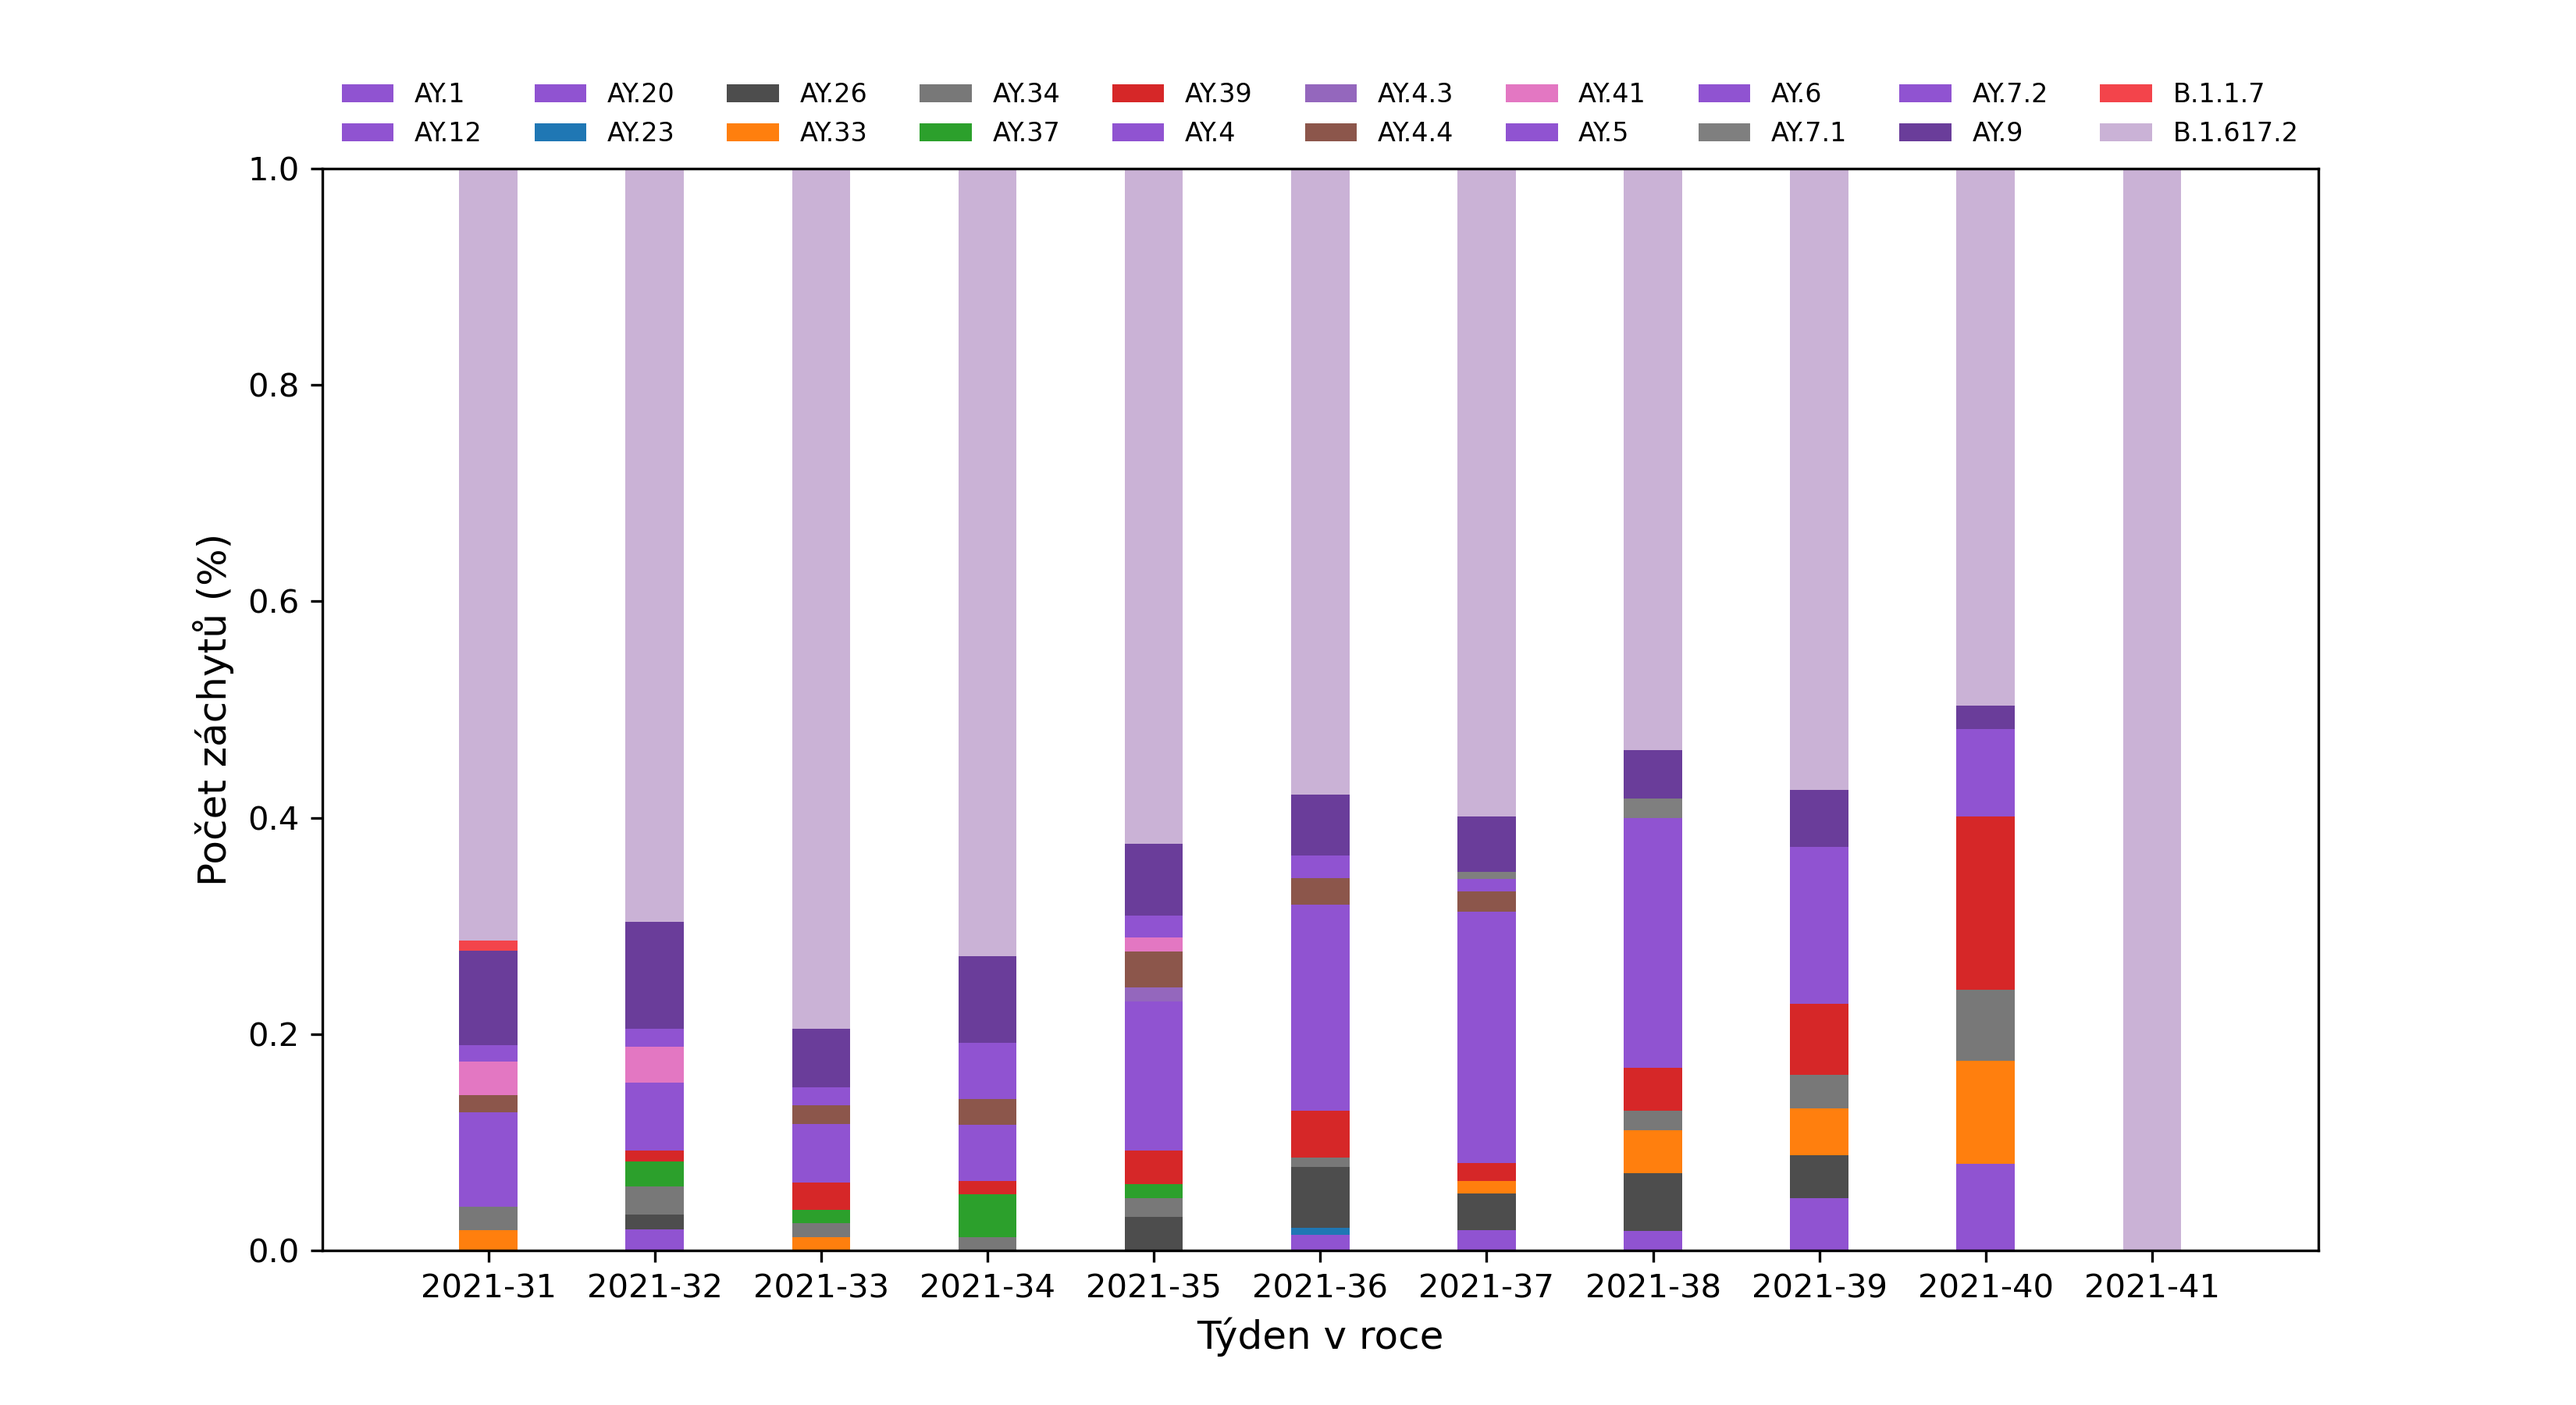
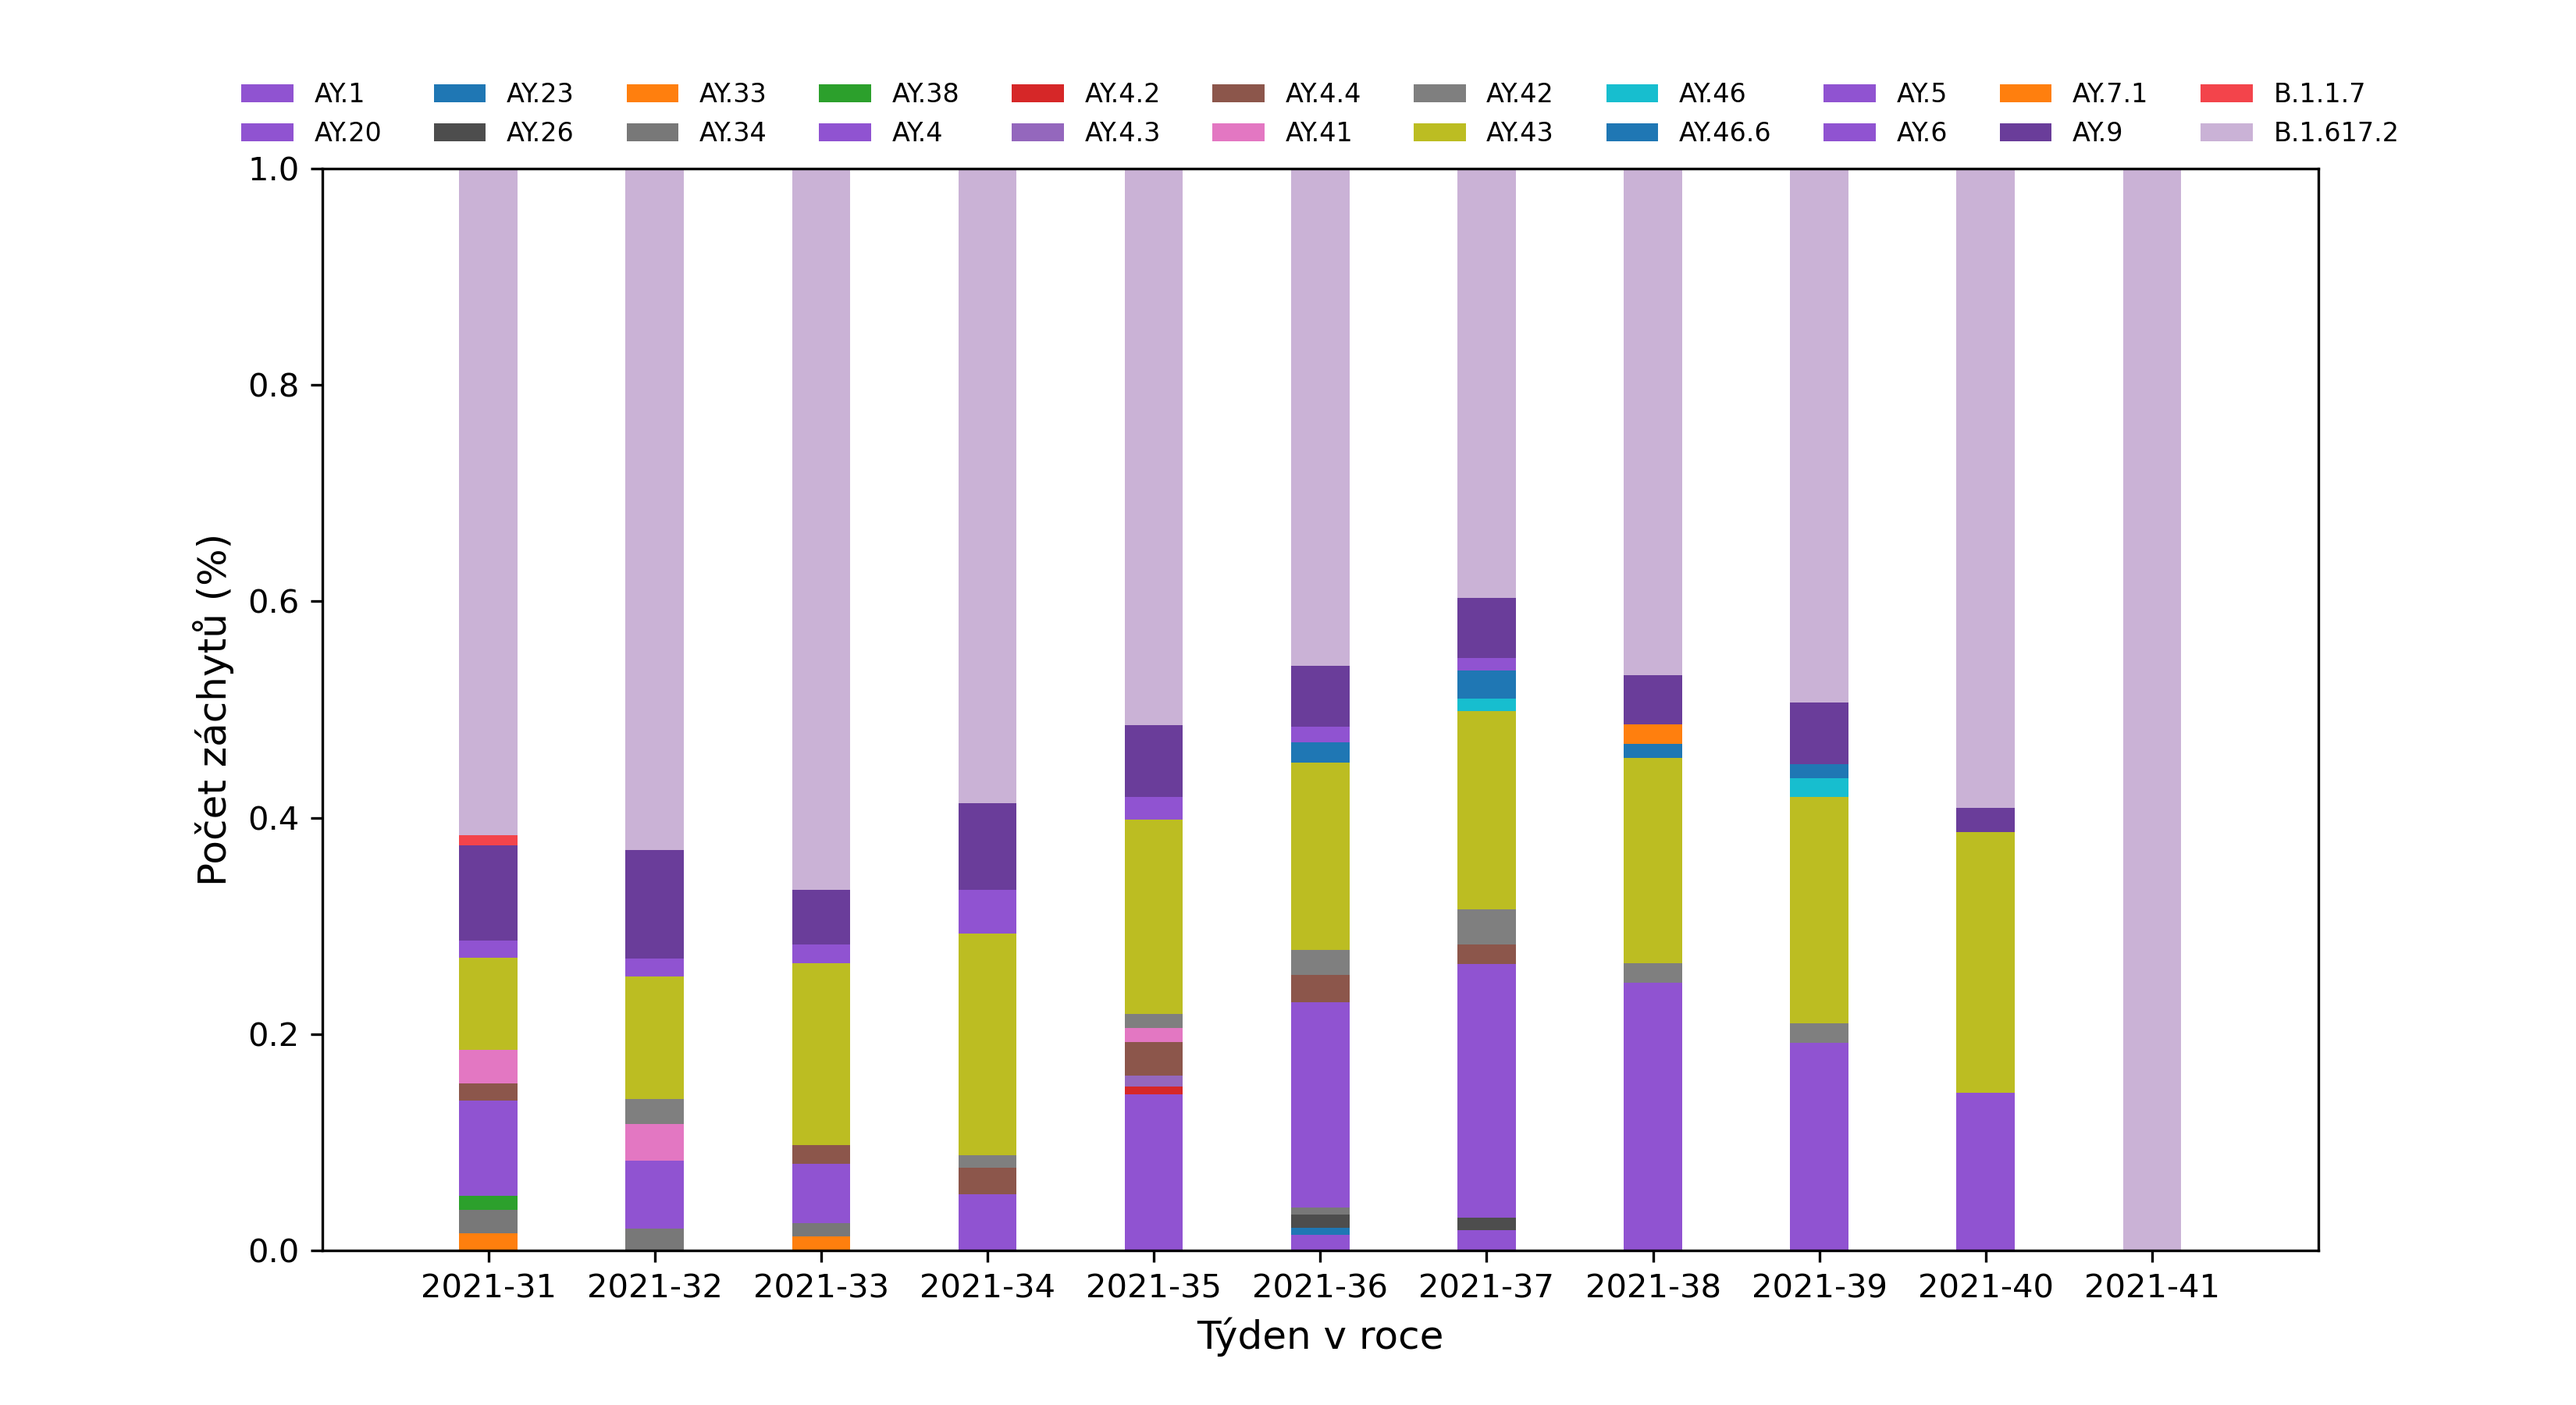
upgrade main a plots

diff --git a/template_main.py b/template_main.py
@@ -27,7 +27,7 @@ STARTING_WEEK = "31"
 SEQUENCED_RATIO = "6.68"
 MUTATIONS_COUNT = "2 100"
 NOW=datetime.datetime.now().strftime('%d. %m. %Y' )
-VOC = ['B.1.351', 'P.1', 'B.1.617.2','B.1.1.7',"B.1.351.2", "B.1.351.5", "AY.1", "AY.2", "AY.3", "AY.4", "AY.4.1", "AY4.3", "AY.4.4","AY.4.5", "AY.5", "AY.5.2", "AY.6","AY.7","AY.7.1", "AY.7.2", "AY.9","AY.10","AY.11", "AY.12", "AY.16", "AY.20", "AY.21","AY.23","AY.23.1","AY.25","AY.26","AY.27","AY.31","AY.32","AY.33","AY.34","AY.35","AY.36","AY.37","AY.38","AY.39.1","AY.40","AY.41","AY.42","AY.43","AY.44","AY.46","AY.46.6","AY.46.2" ]
+VOC = ['B.1.351', 'P.1', 'B.1.617.2','B.1.1.7',"B.1.351.2", "B.1.351.5", "AY.1", "AY.2", "AY.3", "AY.4", "AY.4.1", "AY.4.2","AY.4.3", "AY.4.4","AY.4.5", "AY.5", "AY.5.2", "AY.6","AY.7","AY.7.1", "AY.7.2", "AY.9","AY.10","AY.11", "AY.12", "AY.16", "AY.20", "AY.21","AY.23","AY.23.1","AY.25","AY.26","AY.27","AY.31","AY.32","AY.33","AY.34","AY.35","AY.36","AY.37","AY.38","AY.39","AY.39.1","AY.40","AY.41","AY.42","AY.43","AY.44","AY.46","AY.46.6","AY.46.2" ]
 VOI = ['B.1.620', 'B.1.621', "C.37" ]
 # uprav tyden v range()
 
